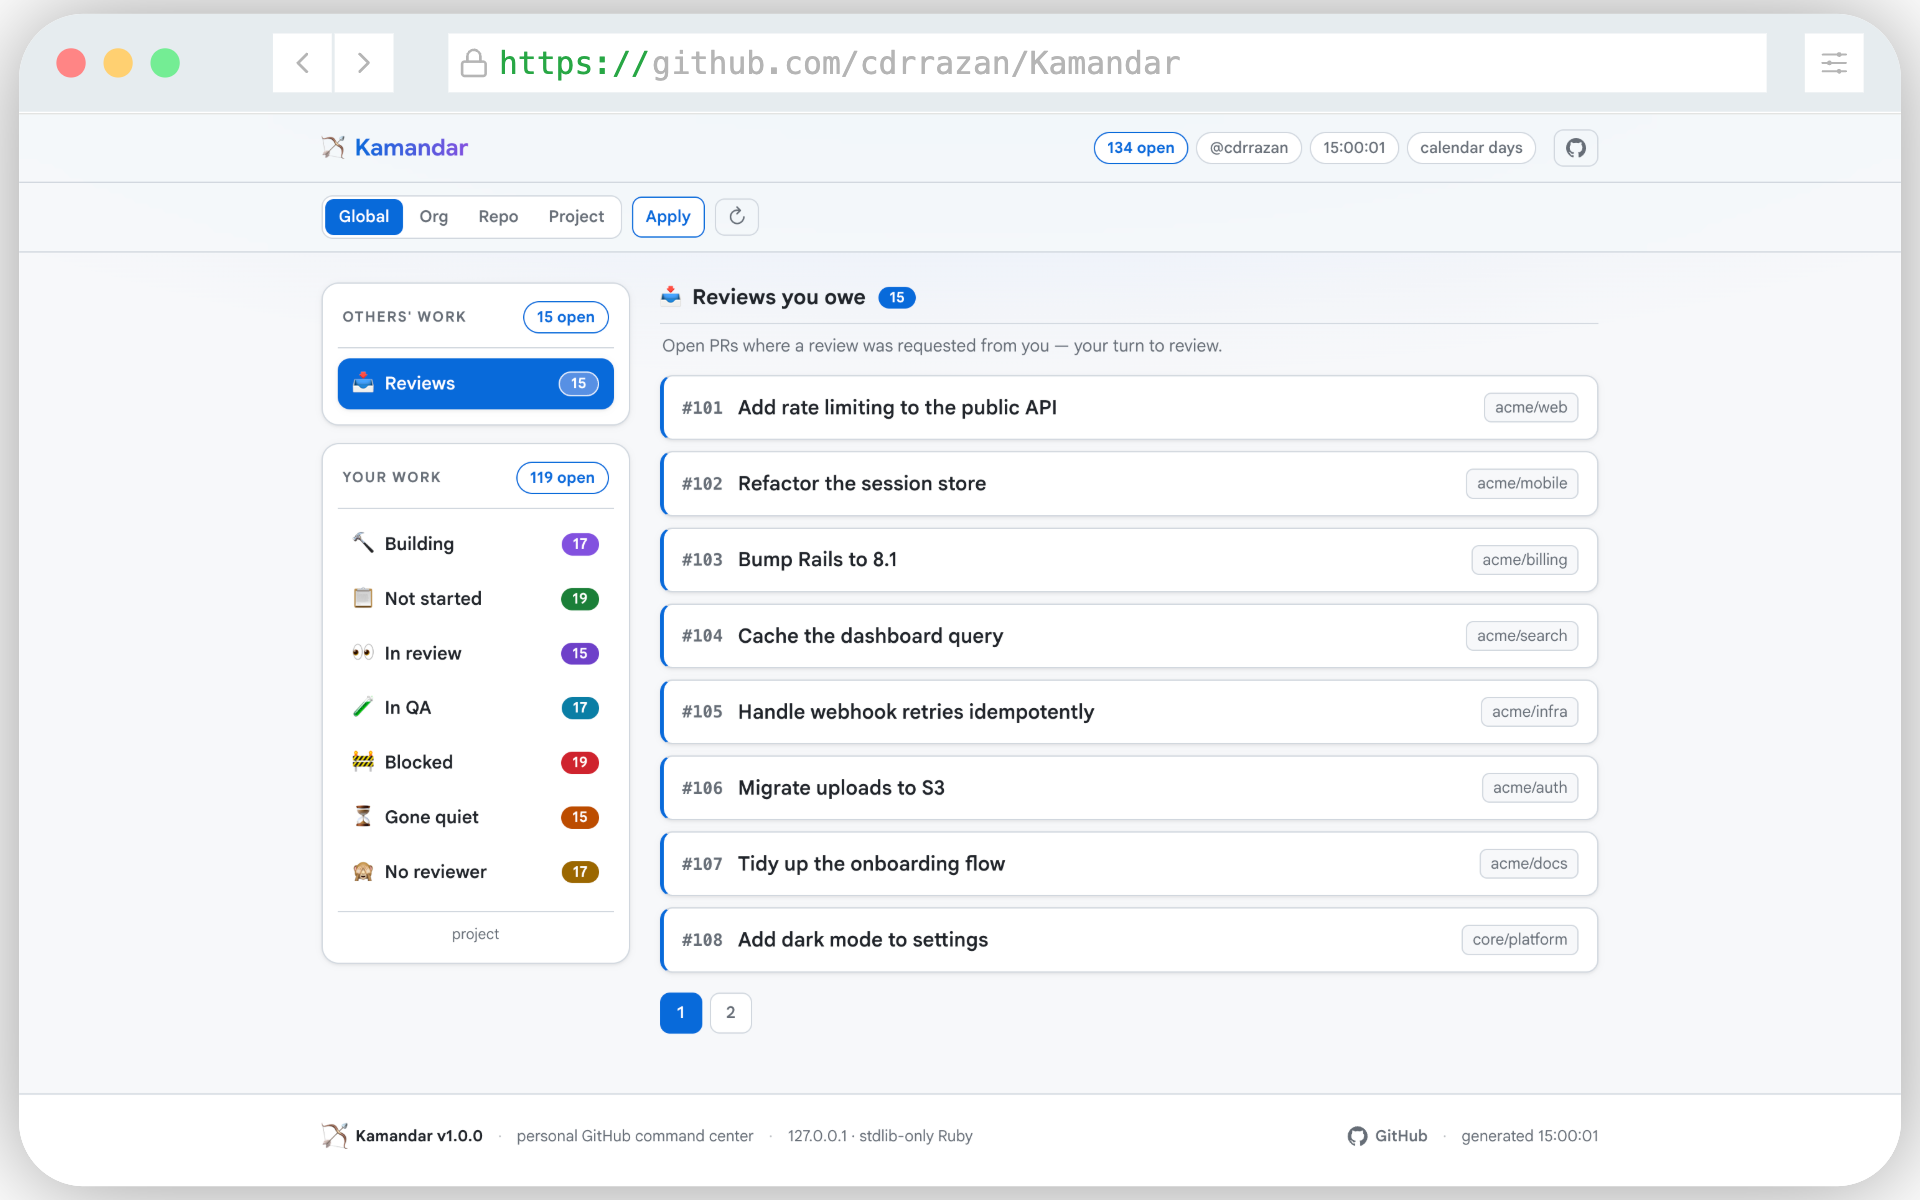
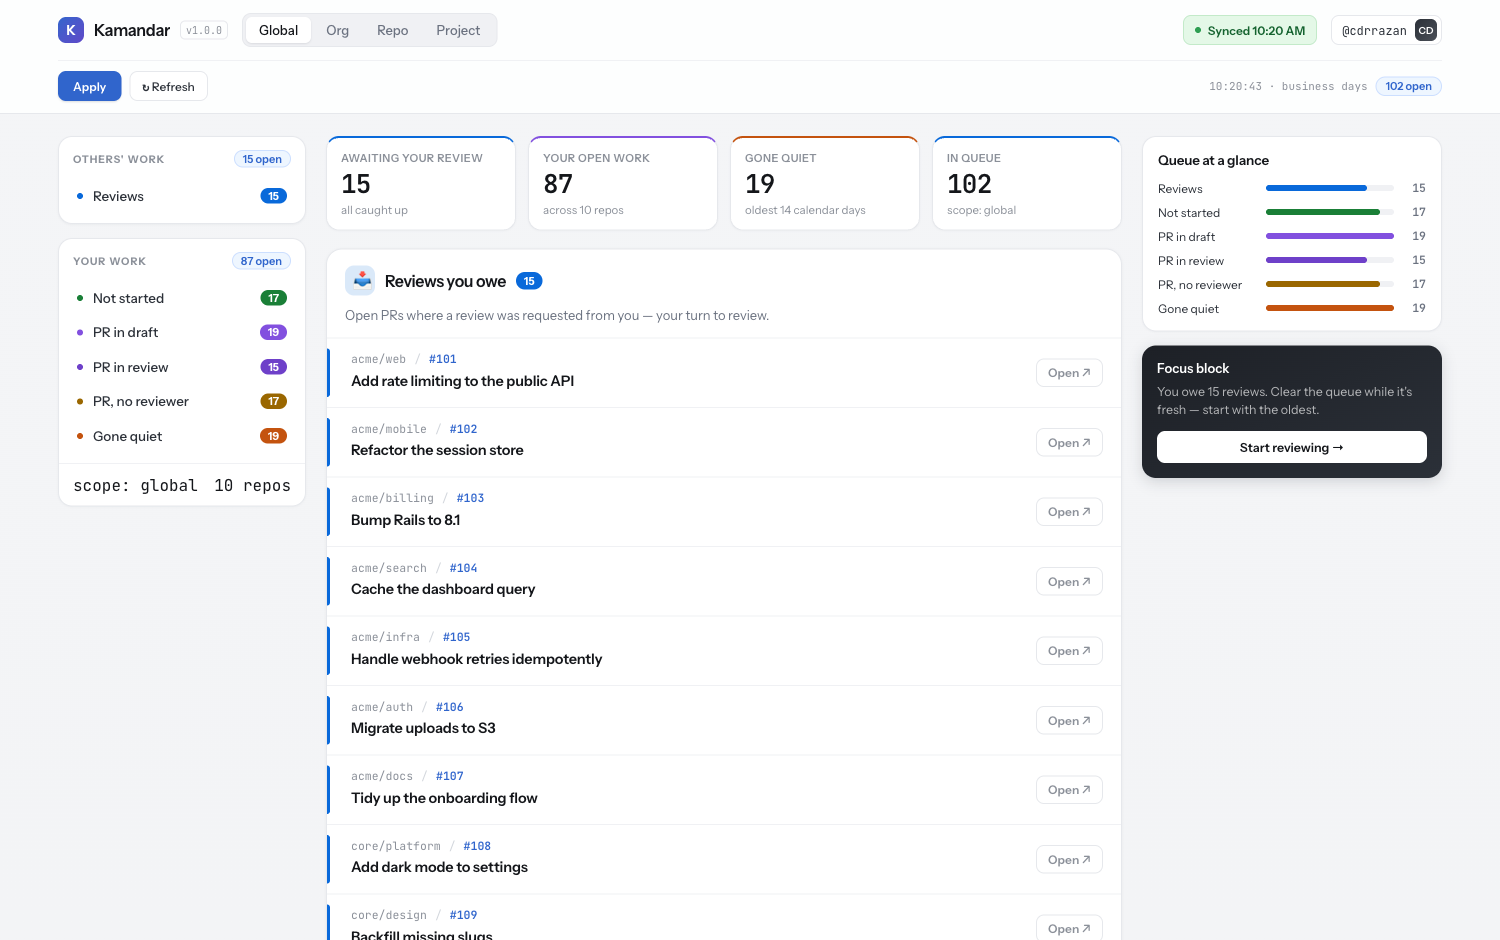
docs: refresh the README hero screenshot for the new dashboard
Regenerates dashboard.png from the redesigned --serve web app
(rendered with --demo at global scope) and bumps the tests badge to
281 passing.

diff --git a/README.md b/README.md
@@ -17,7 +17,7 @@ the opt-in `--serve`, bound to localhost.
 
 ![Ruby](https://img.shields.io/badge/Ruby-3.2%2B-CC342D?logo=ruby&logoColor=white)
 ![Dependencies](https://img.shields.io/badge/dependencies-stdlib%20only-2ea44f)
-![Tests](https://img.shields.io/badge/tests-254%20passing-2ea44f)
+![Tests](https://img.shields.io/badge/tests-281%20passing-2ea44f)
 ![Serverless](https://img.shields.io/badge/serverless-no%20server%20·%20no%20DB%20·%20no%20OAuth-0969da)
 ![License](https://img.shields.io/badge/license-MIT-blue)
 ![PRs welcome](https://img.shields.io/badge/PRs-welcome-ff69b4)
